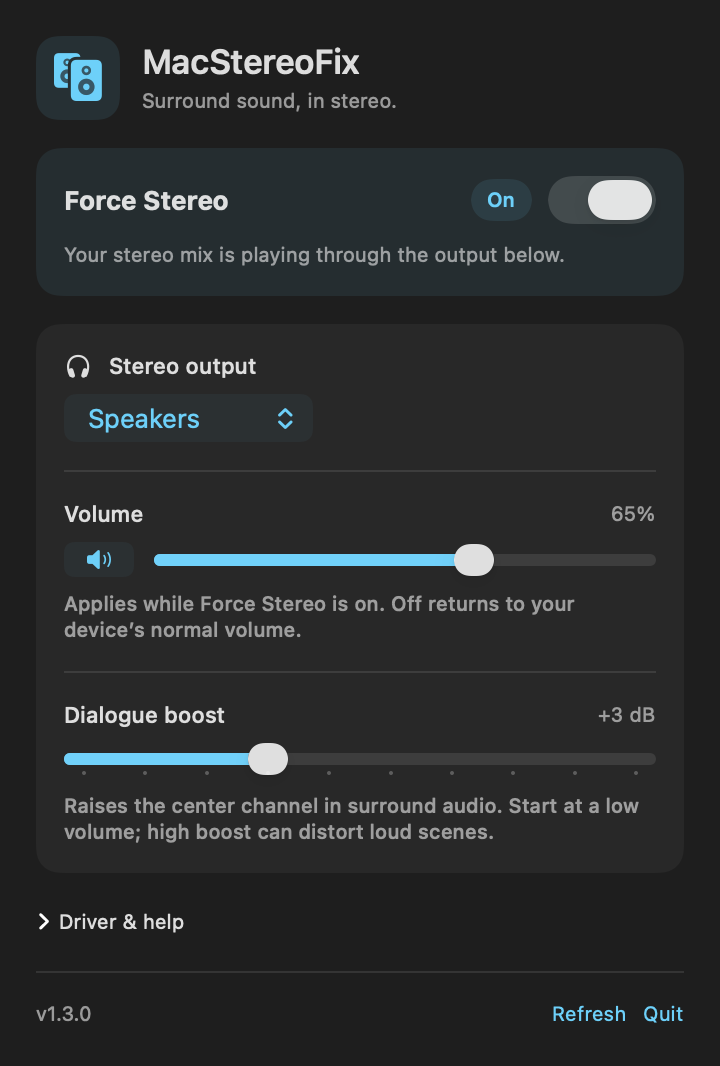
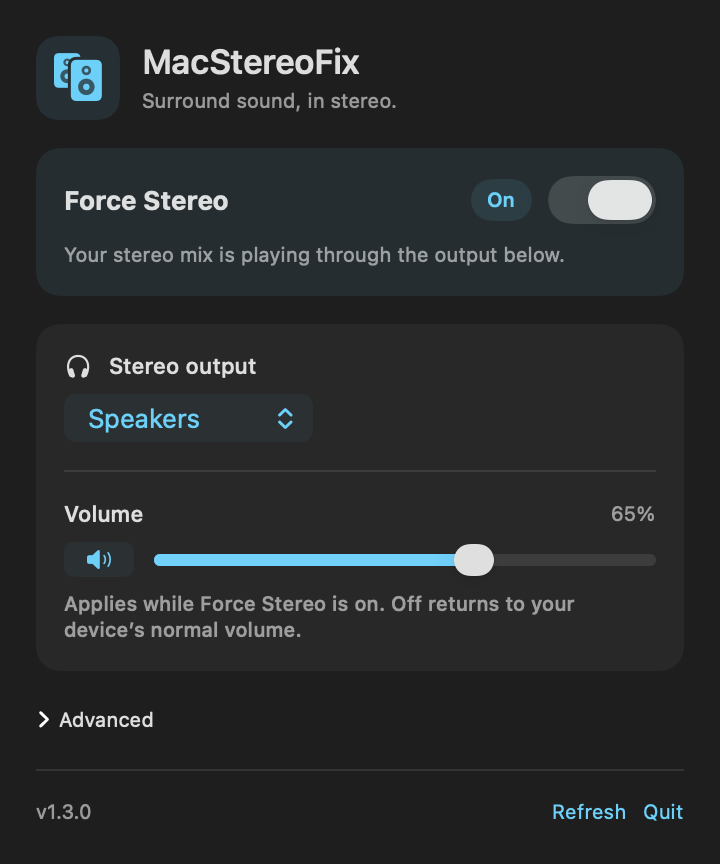
Move optional dialogue boost to Advanced and default it off

diff --git a/App/MenuBarView.swift b/App/MenuBarView.swift
@@ -36,8 +36,6 @@ struct MenuBarView: View {
                         outputSection
                         Divider()
                         volumeSection
-                        Divider()
-                        dialogueSection
                     }
                     .padding(14)
                     .background(.quaternary.opacity(0.45), in: RoundedRectangle(cornerRadius: 12))
@@ -45,7 +43,7 @@ struct MenuBarView: View {
                     setupSection
                 }
                 messages
-                driverSection
+                advancedSection
                 Divider()
                 footer
             }
@@ -163,14 +161,14 @@ struct MenuBarView: View {
             HStack {
                 Text("Dialogue boost").font(.subheadline.weight(.medium))
                 Spacer()
-                Text("+\(Int(state.dialogueBoostDB)) dB")
+                Text(state.dialogueBoostDB == 0 ? "Off" : "+\(Int(state.dialogueBoostDB)) dB")
                     .font(.caption.monospacedDigit()).foregroundStyle(.secondary)
             }
             Slider(value: $state.dialogueBoostDB, in: 0...9, step: 1) { Text("Dialogue boost") }
                 .labelsHidden()
-                .accessibilityValue("\(Int(state.dialogueBoostDB)) decibels")
+                .accessibilityValue(state.dialogueBoostDB == 0 ? "Off" : "\(Int(state.dialogueBoostDB)) decibels")
                 .disabled(state.isBusy)
-            Text("Raises the center channel in surround audio. Start at a low volume; high boost can distort loud scenes.")
+            Text("Optional center-channel boost. Off keeps the standard stereo mix. High boost can distort loud scenes.")
                 .font(.caption2).foregroundStyle(.secondary)
                 .fixedSize(horizontal: false, vertical: true)
         }
@@ -236,9 +234,13 @@ struct MenuBarView: View {
         }
     }
 
-    private var driverSection: some View {
-        DisclosureGroup("Driver & help") {
+    private var advancedSection: some View {
+        DisclosureGroup("Advanced") {
             VStack(alignment: .leading, spacing: 10) {
+                if state.driverInstalled {
+                    dialogueSection
+                    Divider()
+                }
                 Label(state.driverInstalled ? "Audio driver ready" : "Current audio driver needed",
                       systemImage: state.driverInstalled ? "checkmark.circle" : "info.circle")
                 HStack {

diff --git a/Tests/state_tests.swift b/Tests/state_tests.swift
@@ -102,6 +102,10 @@ struct StateTests {
             let state = AppState(defaults: defaults, requestPermission: { true })
             assert(state.selectedOutputUID == "headphones")
             assert(defaults.string(forKey: "selectedOutputUID") == "headphones")
+            assert(state.dialogueBoostDB == 0, "Dialogue boost must be opt-in")
+            state.dialogueBoostDB = 6
+            let restored = AppState(defaults: defaults, requestPermission: { true })
+            assert(restored.dialogueBoostDB == 6, "Keep an explicitly saved boost")
         }
         reset()
         do {

diff --git a/App/AppState.swift b/App/AppState.swift
@@ -15,7 +15,7 @@ final class AppState: ObservableObject {
     @Published var selectedOutputUID: String? {
         didSet { defaults.set(selectedOutputUID, forKey: "selectedOutputUID") }
     }
-    @Published var dialogueBoostDB: Float = 3 {
+    @Published var dialogueBoostDB: Float = 0 {
         didSet {
             router.setDialogueBoostDB(dialogueBoostDB)
             defaults.set(dialogueBoostDB, forKey: "dialogueBoostDB")

diff --git a/docs/AUDIT.md b/docs/AUDIT.md
@@ -25,7 +25,7 @@ The published v1.2 ZIP has not been replaced.
 | Medium | Disk installation status could say the new driver was ready while CoreAudio still had the old binary loaded. | Read and compare the loaded driver's build number as well as the bundled and installed versions. |
 | Medium | Startup enumeration could overwrite a saved output preference; no-device handling retained a stale selection. | Read preferences first, clear vanished selections, stop on disconnection, and permit removal even with no physical output. |
 | Medium | Release packaging defaulted to ad-hoc signing, removed extended attributes and called the ZIP ready without notarization. Recursive signing could also apply the app's entitlements to nested code. | Sign inside out, verify each component, gate packaging on tests/clean tested commit/Developer ID/Apple acceptance/stapling/Gatekeeper, then verify the extracted final ZIP and write a checksum. |
-| Medium | The user instructions recommended bypassing macOS security and described controls/behavior the UI did not have. | Updated instructions and privacy statement, restored bounded dialogue boost, labeled controls, visible install interruption notices and bounded error display. |
+| Medium | The user instructions recommended bypassing macOS security and described controls/behavior the UI did not have. | Updated instructions and privacy statement, optional bounded dialogue boost under Advanced (off by default), labeled controls, visible install interruption notices and bounded error display. |
 | Maintenance | There was no test suite/CI or included Apple sample notice. | Repeatable native tests, Apple Silicon/Intel CI with a pinned checkout action and read-only token, and Apple's current NullAudio notice included in the source and bundles. |
 
 The heap-overflow reproduction calls the driver directly in an isolated test

diff --git a/README.md b/README.md
@@ -31,7 +31,6 @@ Apple's audio converter handles output sample-rate conversion and small clock
 differences. Virtual and aggregate destinations are excluded to avoid feedback.
 Bluetooth call modes with only one output channel are not supported.
 
-- **Dialogue boost:** 0–9 dB above the base center coefficient; default +3 dB.
 - **Volume and mute:** attenuate routed audio without changing hardware volume
   or left/right balance. Turning Off returns to the device's normal volume.
 - **Off and Quit:** attempt to restore the previous output, with a connected
@@ -39,6 +38,8 @@ Bluetooth call modes with only one output channel are not supported.
   if the app crashes or is force-quit. It exits afterward and has no login item.
 - **Sleep, device loss, routing errors, and manual output changes:** stop routing.
   The app starts off at each launch and does not automatically resume capture.
+- **Optional dialogue boost:** under **Advanced**, 0–9 dB above the base center
+  coefficient. Off (0 dB) by default; an explicitly saved setting is retained.
 
 The mix is `L + Cgain*C + 0.707*Ls + 0.5*Lsr` and the corresponding right channels.
 `Cgain = 0.707 * 10^(boost/20)`. LFE is omitted. Invalid samples are silenced and
@@ -79,7 +80,7 @@ only after the intended output is available.
 
 ## Remove it
 
-Use **Driver & help → Uninstall…**, then move the app from Applications to the
+Use **Advanced → Uninstall…**, then move the app from Applications to the
 Trash. The app stops routing first. Removal needs administrator authorization
 and briefly interrupts Mac audio.
 
